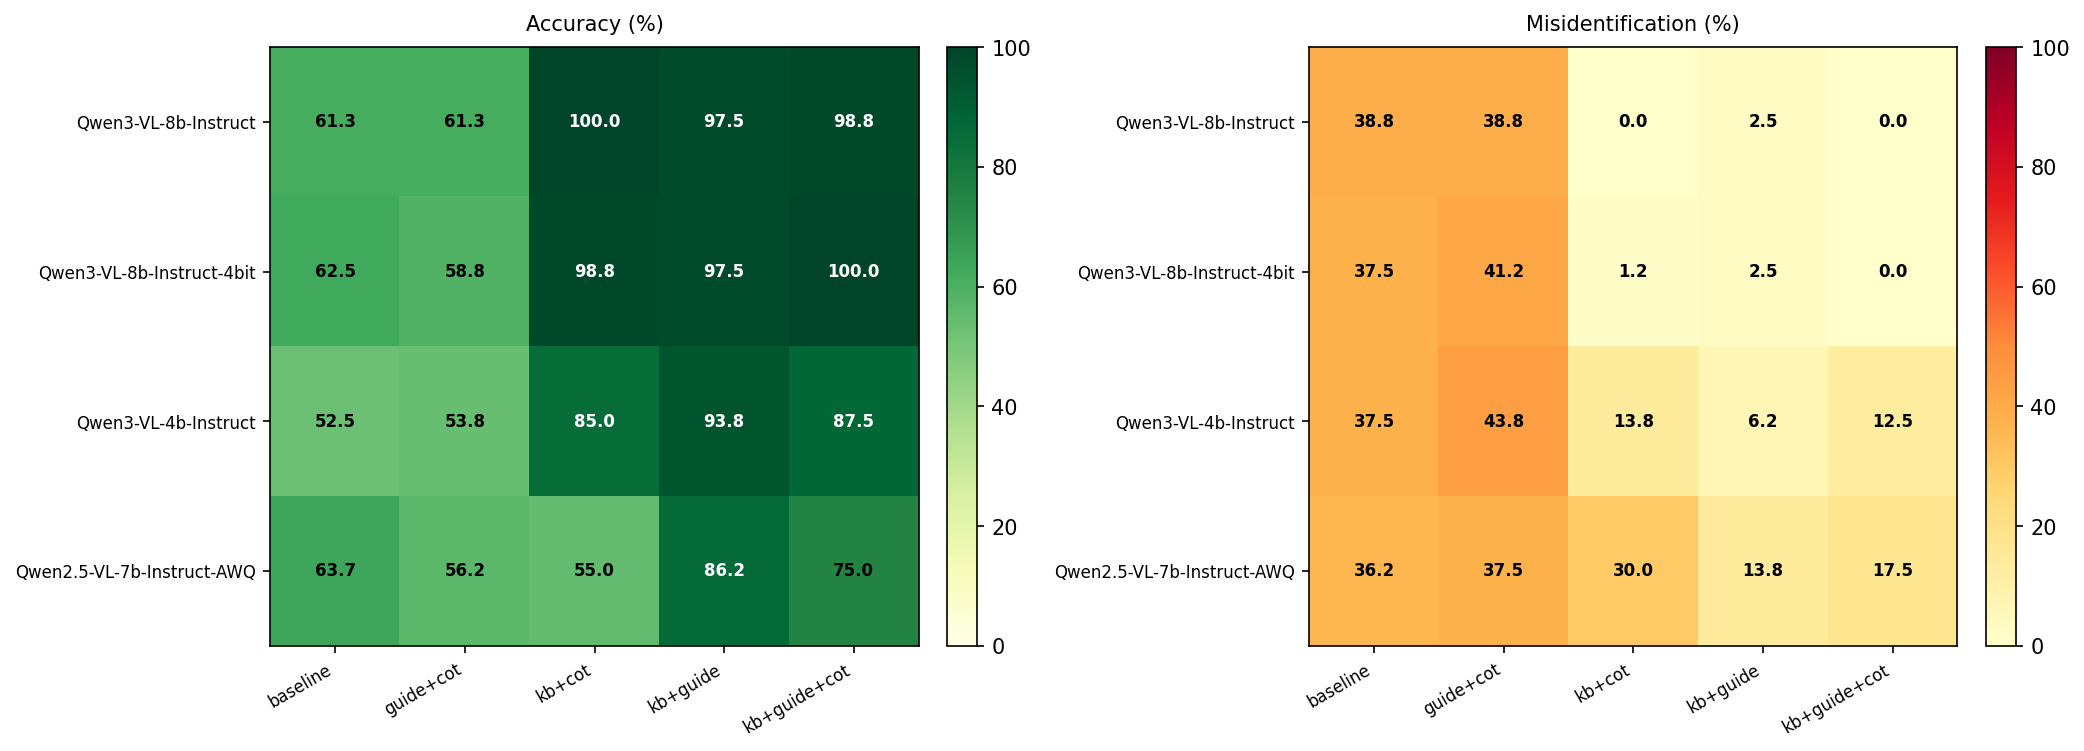
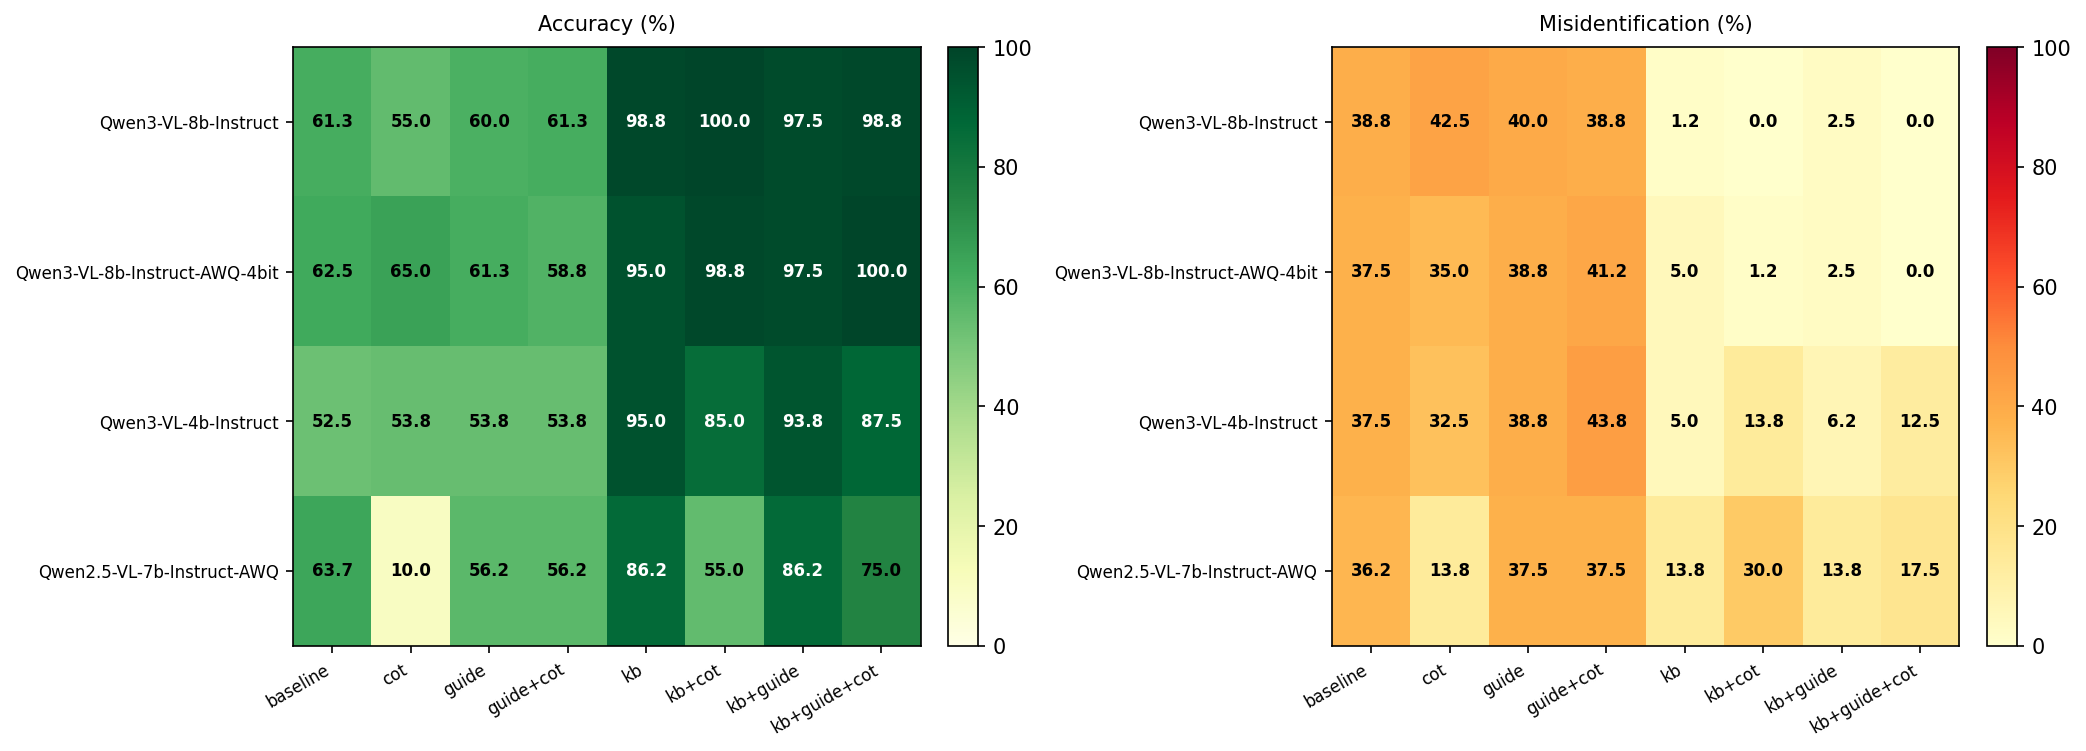
update

diff --git a/src/run.py b/src/run.py
@@ -292,9 +292,9 @@ def analyze_all():
     # Nature-style palette (npg: Nature Publishing Group)
     color_map  = ["#E64B35", "#4DBBD5", "#00A087", "#3C5488", "#F39B7F"]
     marker_map = {"baseline": "o", "kb": "s", "guide": "^", "cot": "D",
-                  "kb+guide": "s", "kb+cot": "^", "guide+cot": "D", "kb+guide+cot": "P"}
+                  "kb+guide": "p", "kb+cot": "h", "guide+cot": "X", "kb+guide+cot": "P"}
 
-    fig2, ax2 = plt.subplots(figsize=(9, 5.5))
+    fig2, ax2 = plt.subplots(figsize=(7, 4.5))
     fig2.patch.set_facecolor("white")
     ax2.set_facecolor("white")
     ax2.set_xlabel("Average response time (s)", fontsize=10)
@@ -305,6 +305,7 @@ def analyze_all():
         spine.set_linewidth(0.6)
         spine.set_color("#aaaaaa")
 
+    rng = np.random.default_rng(0)
     plotted = {}  # track (model, cfg) for legend dedup
     for r in rows:
         if not r["times"]:
@@ -316,10 +317,12 @@ def analyze_all():
         cfg   = _cfg_label(r["code"])
         color  = color_map[mi % len(color_map)]
         marker = marker_map.get(cfg, "o")
-        ax2.scatter(avg_t, acc,
+        jx = rng.uniform(-0.15, 0.15)
+        jy = rng.uniform(-0.4, 0.4)
+        ax2.scatter(avg_t + jx, acc + jy,
                     color=color, marker=marker,
-                    s=55, edgecolors=color, linewidths=0.5,
-                    zorder=3, alpha=0.92)
+                    s=50, edgecolors="black", linewidths=0.6,
+                    zorder=3, alpha=0.75)
         plotted.setdefault("model", set()).add(mi)
         plotted.setdefault("cfg",   set()).add(cfg)
 

diff --git a/logs/analysis.md b/logs/analysis.md
@@ -2,12 +2,12 @@
 
 n=80　**正确% / 拒识% / 误识%**
 
-| 配置 | Qwen3-VL-8b-Instruct | Qwen3-VL-8b-Instruct-4bit | Qwen3-VL-4b-Instruct | Qwen2.5-VL-7b-Instruct-AWQ |
+| 配置 | Qwen3-VL-8b-Instruct | Qwen3-VL-8b-Instruct-AWQ-4bit | Qwen3-VL-4b-Instruct | Qwen2.5-VL-7b-Instruct-AWQ |
 |:---:|:---:|:---:|:---:|:---:|
 | baseline | 61 / 0 / 39 | 62 / 0 / 38 | 52 / 10 / 38 | 64 / 0 / 36 |
-| kb | - | - | - | - |
-| guide | - | - | - | - |
-| cot | - | - | - | - |
+| kb | 99 / 0 / 1 | 95 / 0 / 5 | 95 / 0 / 5 | 86 / 0 / 14 |
+| guide | 60 / 0 / 40 | 61 / 0 / 39 | 54 / 8 / 39 | 56 / 6 / 38 |
+| cot | 55 / 2 / 42 | 65 / 0 / 35 | 54 / 14 / 32 | 10 / 76 / 14 |
 | kb+guide | 98 / 0 / 2 | 98 / 0 / 2 | 94 / 0 / 6 | 86 / 0 / 14 |
 | kb+cot | 100 / 0 / 0 | 99 / 0 / 1 | 85 / 1 / 14 | 55 / 15 / 30 |
 | guide+cot | 61 / 0 / 39 | 59 / 0 / 41 | 54 / 2 / 44 | 56 / 6 / 38 |
